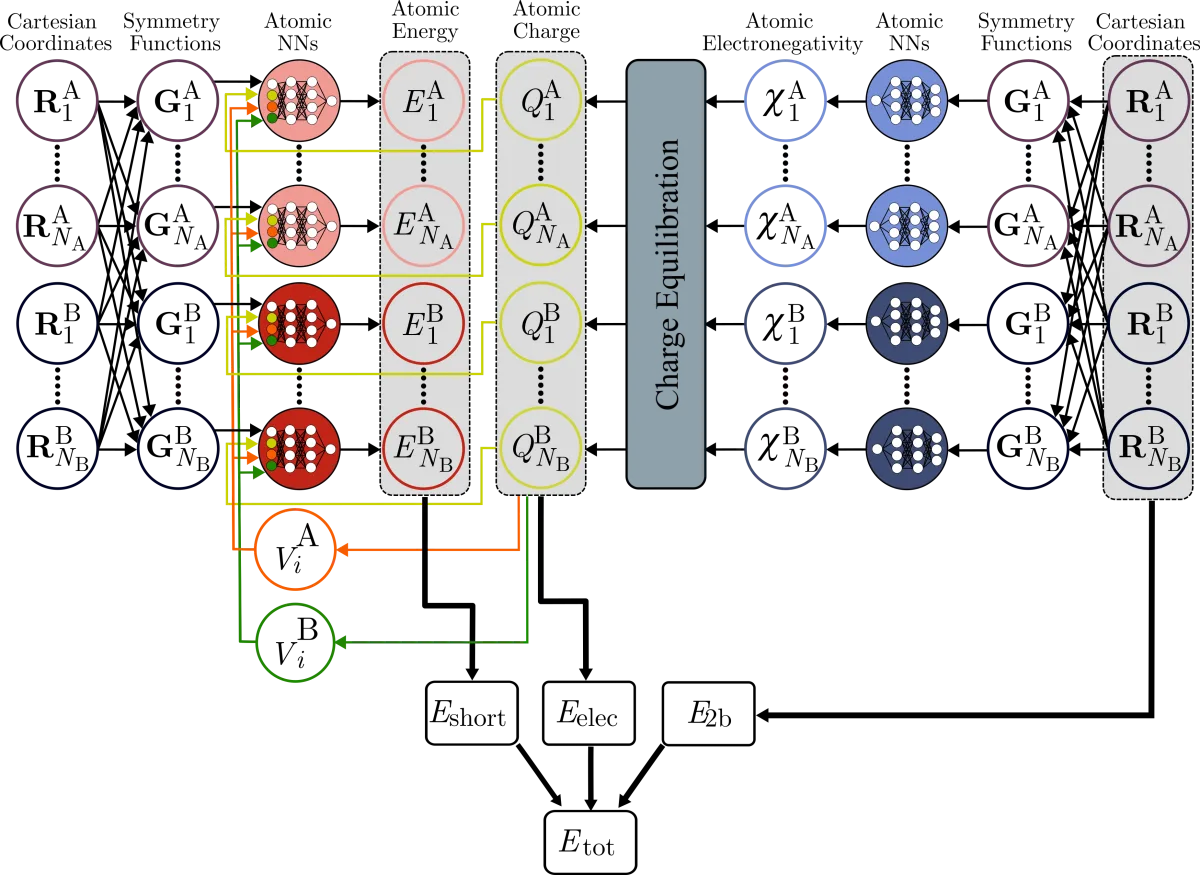
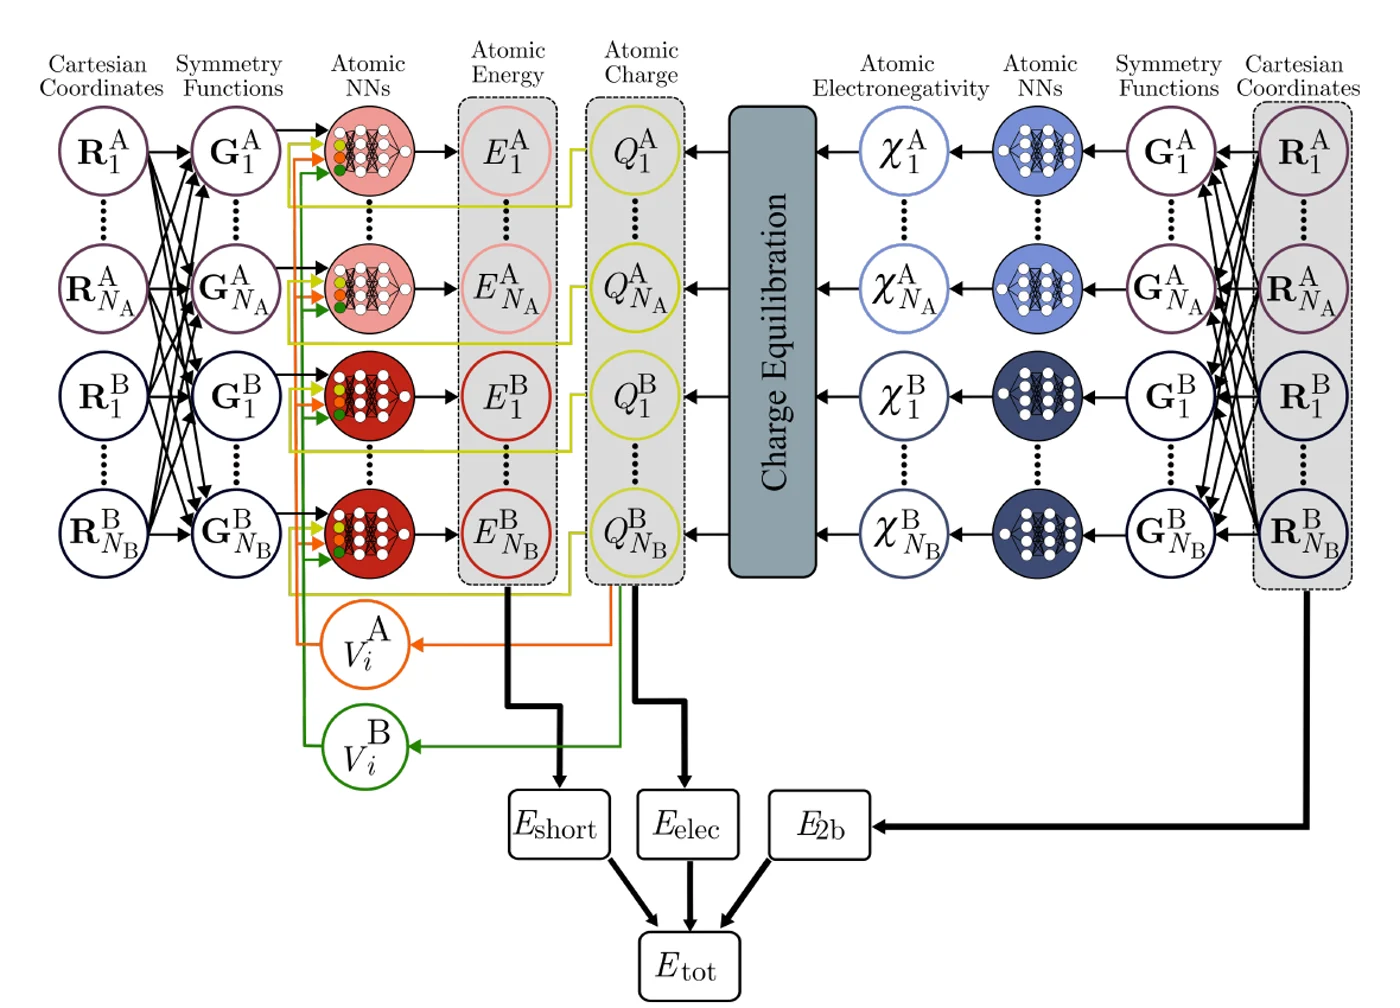
Use preprint architecture for ee4G-HDNNP

Changed region(s): [[0.0, 0.0, 1.0, 1.0]]

diff --git a/index.html b/index.html
@@ -114,7 +114,7 @@
         <li class="publication"><div class="publication-year">2025</div><a class="publication-figure" href="https://www.nature.com/articles/s41524-025-01742-y" target="_blank" rel="noreferrer"><img src="assets/publications/matgl.webp" alt="MatGL data pipeline, model architecture, training, and simulation components" width="1750" height="832" loading="lazy"><span>Figure from paper ↗</span></a><div><h3><a href="https://www.nature.com/articles/s41524-025-01742-y" target="_blank" rel="noreferrer">Materials Graph Library (MatGL), an Open-Source Graph Deep Learning Library for Materials Science and Chemistry <span aria-hidden="true">↗</span></a></h3><p><strong>T. W. Ko*</strong>, B. Deng, M. Nassar, L. B.-Luque, R. Liu, J. Qi, A. C. Thakur, A. R. Mishra, E. Liu, G. Ceder, S. Miret, S. P. Ong*</p><p class="venue"><cite>npj Computational Materials</cite> 11, 253</p></div></li>
         <li class="publication"><div class="publication-year">2025</div><a class="publication-figure" href="https://www.nature.com/articles/s41524-025-01550-4" target="_blank" rel="noreferrer"><img src="assets/publications/multifidelity.webp" alt="Multi-fidelity graph potential learning high- and low-fidelity energy surfaces" width="2023" height="1224" loading="lazy"><span>Figure from paper ↗</span></a><div><h3><a href="https://www.nature.com/articles/s41524-025-01550-4" target="_blank" rel="noreferrer">Data-Efficient Construction of High-Fidelity Graph Deep Learning Interatomic Potentials <span aria-hidden="true">↗</span></a></h3><p><strong>T. W. Ko*</strong>, S. P. Ong*</p><p class="venue"><cite>npj Computational Materials</cite> 11, 65</p></div></li>
         <li class="publication"><div class="publication-year">2023</div><a class="publication-figure" href="https://www.nature.com/articles/s43588-023-00561-9" target="_blank" rel="noreferrer"><img src="assets/publications/mlip-review-no-labels.png" alt="Local-descriptor and graph-neural-network approaches to machine-learning interatomic potentials" width="2125" height="683" loading="lazy"><span>Figure from paper ↗</span></a><div><h3><a href="https://www.nature.com/articles/s43588-023-00561-9" target="_blank" rel="noreferrer">Recent Advances and Outstanding Challenges for Machine Learning Interatomic Potentials <span aria-hidden="true">↗</span></a></h3><p><strong>T. W. Ko</strong>, S. P. Ong</p><p class="venue"><cite>Nature Computational Science</cite> 3, 998</p></div></li>
-        <li class="publication"><div class="publication-year">2023</div><a class="publication-figure" href="https://pubs.acs.org/doi/10.1021/acs.jctc.2c01146" target="_blank" rel="noreferrer"><img src="assets/publications/electrostatic-embedding.webp" alt="Electrostatically embedded fourth-generation neural-network potential architecture" width="1200" height="875" loading="lazy"><span>Figure from paper ↗</span></a><div><h3><a href="https://pubs.acs.org/doi/10.1021/acs.jctc.2c01146" target="_blank" rel="noreferrer">Accurate Fourth-Generation Machine Learning Potentials by Electrostatic Embedding <span aria-hidden="true">↗</span></a></h3><p><strong>T. W. Ko*</strong>, J. A. Finkler, S. Goedecker, J. Behler*</p><p class="venue"><cite>Journal of Chemical Theory and Computation</cite> 19, 3567–3579</p></div></li>
+        <li class="publication"><div class="publication-year">2023</div><a class="publication-figure" href="https://pubs.acs.org/doi/10.1021/acs.jctc.2c01146" target="_blank" rel="noreferrer"><img src="assets/publications/electrostatic-embedding.webp?v=20261122-preprint-architecture" alt="Architecture of an electrostatically embedded fourth-generation high-dimensional neural-network potential" width="1400" height="1008" loading="lazy"><span>Architecture from preprint ↗</span></a><div><h3><a href="https://pubs.acs.org/doi/10.1021/acs.jctc.2c01146" target="_blank" rel="noreferrer">Accurate Fourth-Generation Machine Learning Potentials by Electrostatic Embedding <span aria-hidden="true">↗</span></a></h3><p><strong>T. W. Ko*</strong>, J. A. Finkler, S. Goedecker, J. Behler*</p><p class="venue"><cite>Journal of Chemical Theory and Computation</cite> 19, 3567–3579</p></div></li>
         <li class="publication"><div class="publication-year">2022</div><a class="publication-figure" href="https://www.annualreviews.org/content/journals/10.1146/annurev-physchem-082720-034254" target="_blank" rel="noreferrer"><img src="assets/publications/nn-potentials.webp" alt="Overview of second-generation neural-network potential architectures" width="709" height="568" loading="lazy"><span>Figure from paper ↗</span></a><div><h3><a href="https://www.annualreviews.org/content/journals/10.1146/annurev-physchem-082720-034254" target="_blank" rel="noreferrer">Neural Network Potentials: A Concise Overview of Methods <span aria-hidden="true">↗</span></a></h3><p>E. Kocer†, <strong>T. W. Ko†</strong>, J. Behler*</p><p class="venue"><cite>Annual Review of Physical Chemistry</cite> 73, 163–186</p></div></li>
         <li class="publication"><div class="publication-year">2021</div><a class="publication-figure" href="https://pubs.acs.org/doi/10.1021/acs.accounts.0c00689" target="_blank" rel="noreferrer"><img src="assets/publications/nonlocal-charge.webp?v=20261112-visual-abstract" alt="Visual abstract illustrating nonlocal charge redistribution following deprotonation" width="520" height="280" loading="lazy"><span>Visual abstract ↗</span></a><div><h3><a href="https://pubs.acs.org/doi/10.1021/acs.accounts.0c00689" target="_blank" rel="noreferrer">General-Purpose Machine Learning Potentials Capturing Nonlocal Charge Transfer <span aria-hidden="true">↗</span></a></h3><p><strong>T. W. Ko†</strong>, J. A. Finkler†, S. Goedecker*, J. Behler*</p><p class="venue"><cite>Accounts of Chemical Research</cite> 54, 808–817</p></div></li>
         <li class="publication"><div class="publication-year">2021</div><a class="publication-figure" href="https://www.nature.com/articles/s41467-020-20427-2" target="_blank" rel="noreferrer"><img src="assets/publications/4g-hdnnp.webp" alt="Fourth-generation high-dimensional neural-network potential architecture" width="804" height="851" loading="lazy"><span>Figure from paper ↗</span></a><div><h3><a href="https://www.nature.com/articles/s41467-020-20427-2" target="_blank" rel="noreferrer">A Fourth-Generation High-Dimensional Neural Network Potential with Accurate Electrostatics Including Non-Local Charge Transfer <span aria-hidden="true">↗</span></a></h3><p><strong>T. W. Ko*†</strong>, J. A. Finkler*†, S. Goedecker, J. Behler</p><p class="venue"><cite>Nature Communications</cite> 12, 398</p></div></li>
